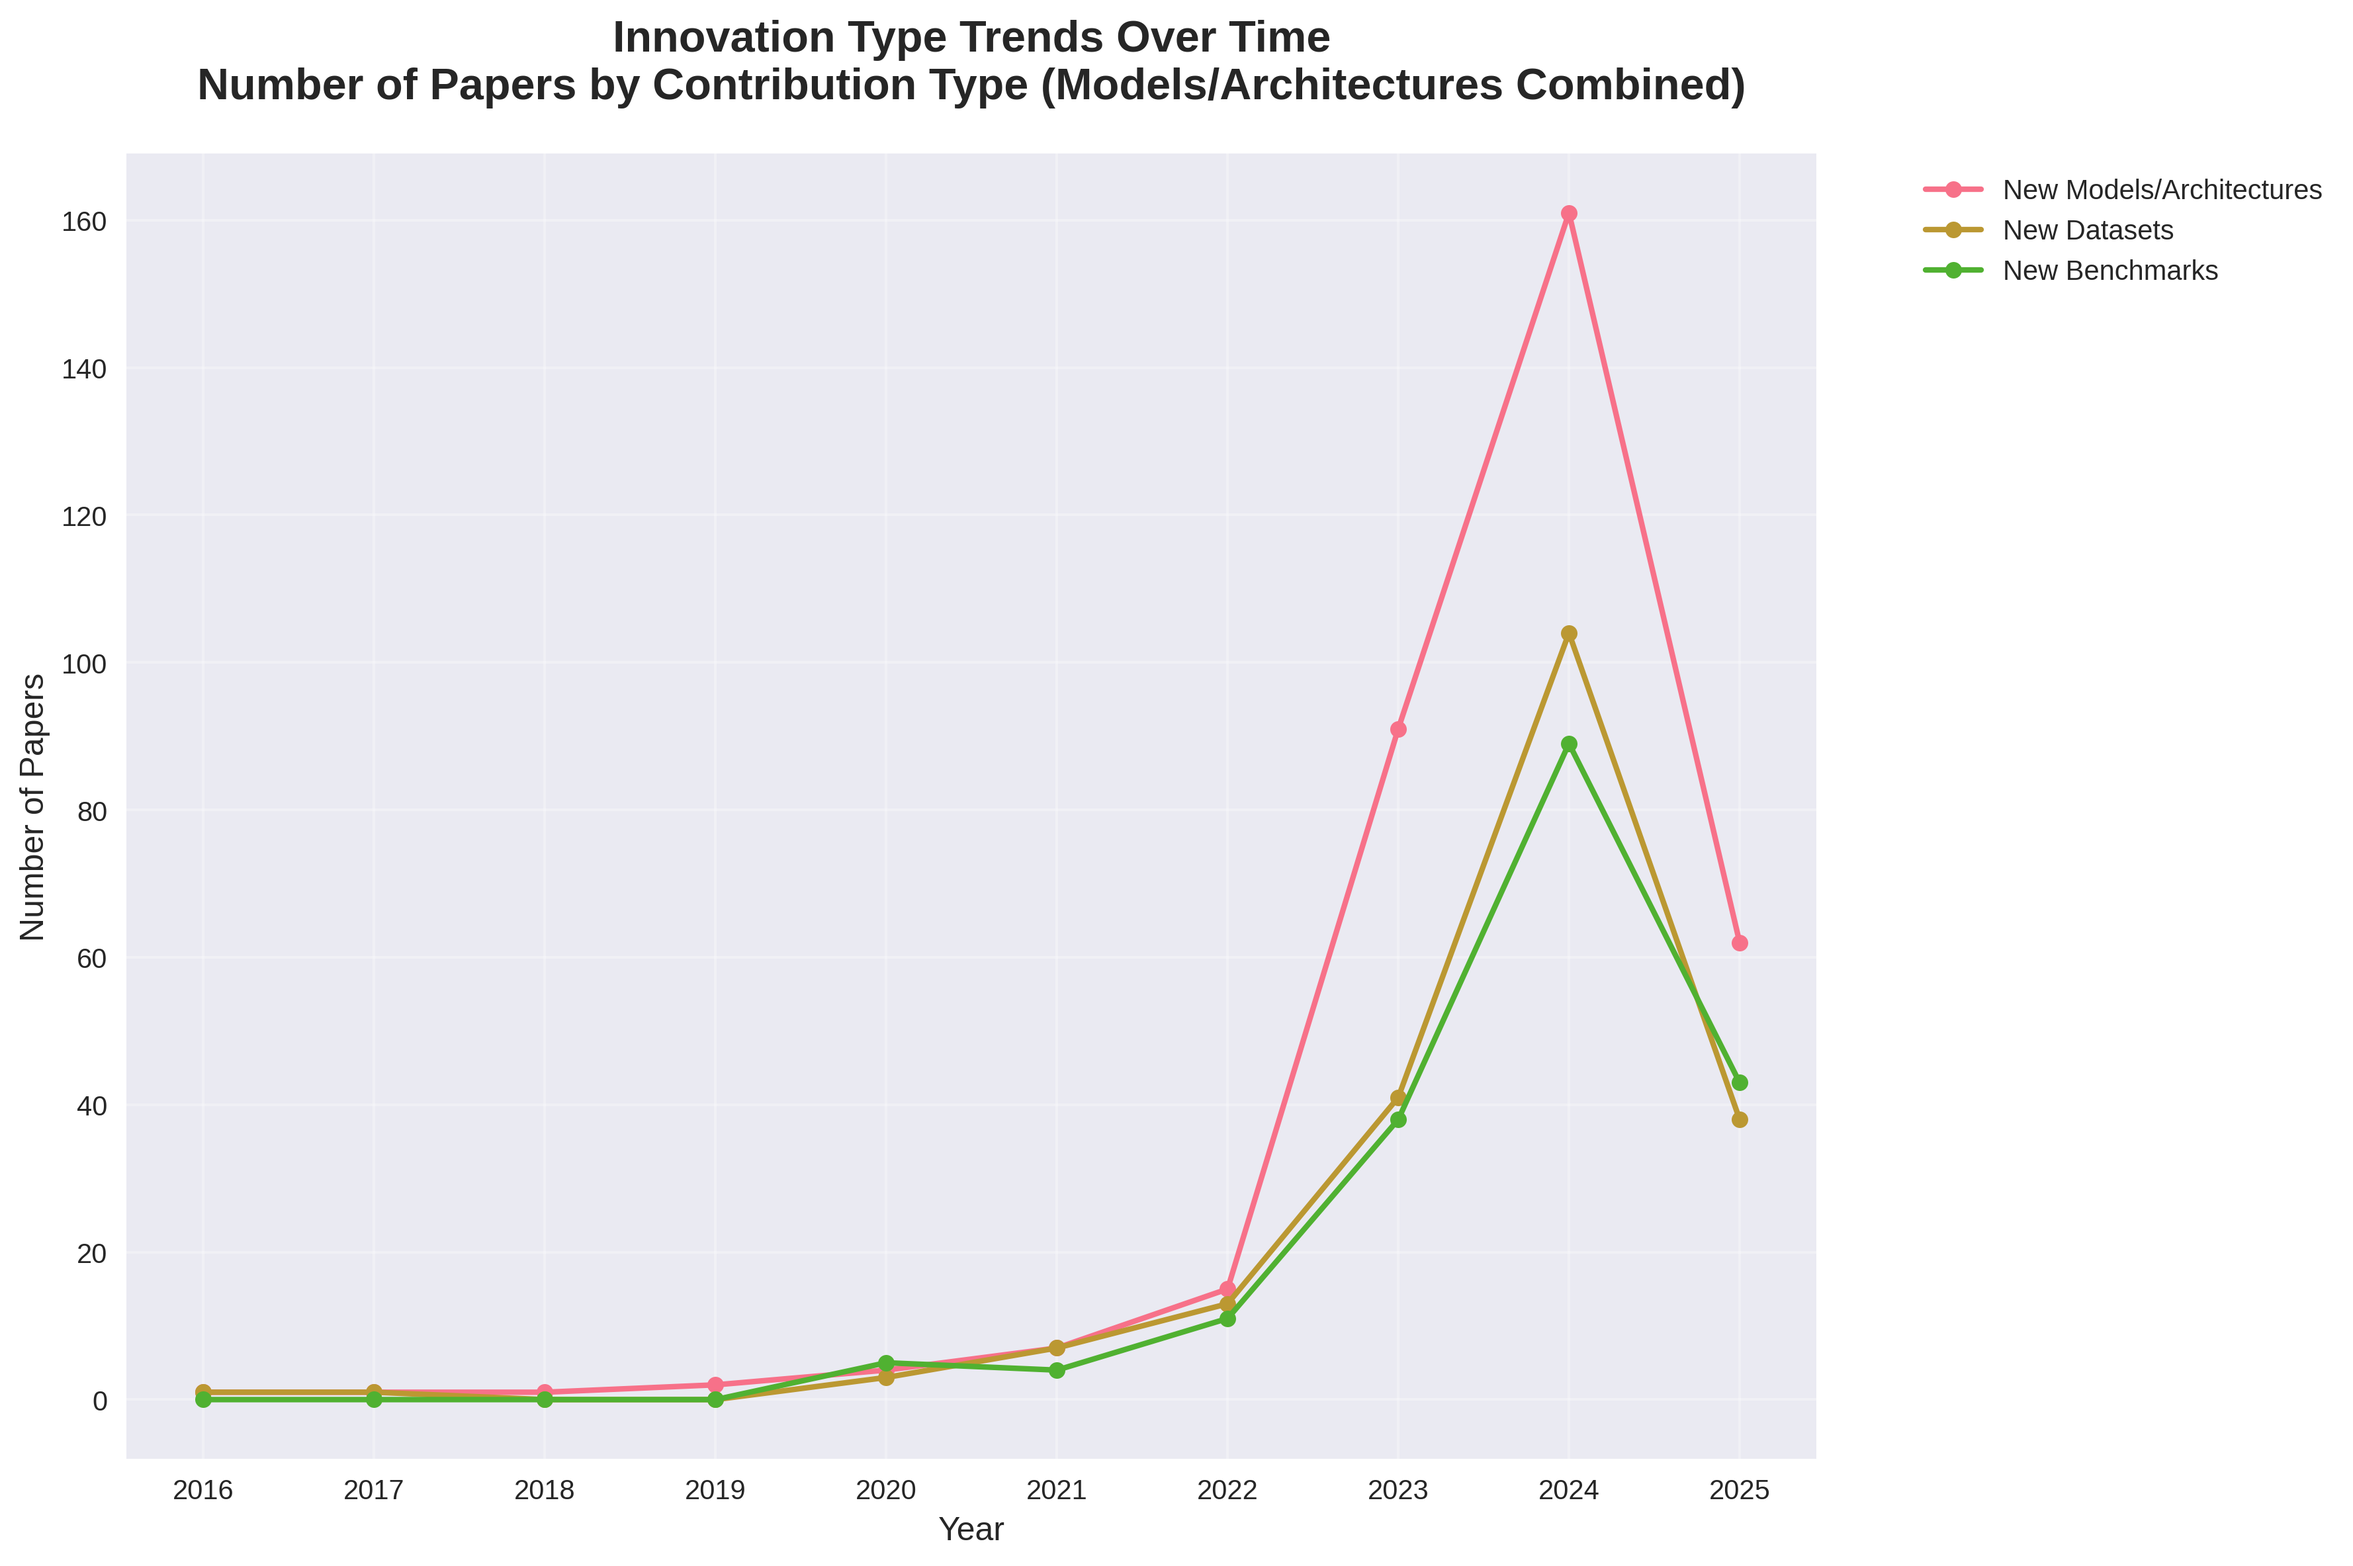
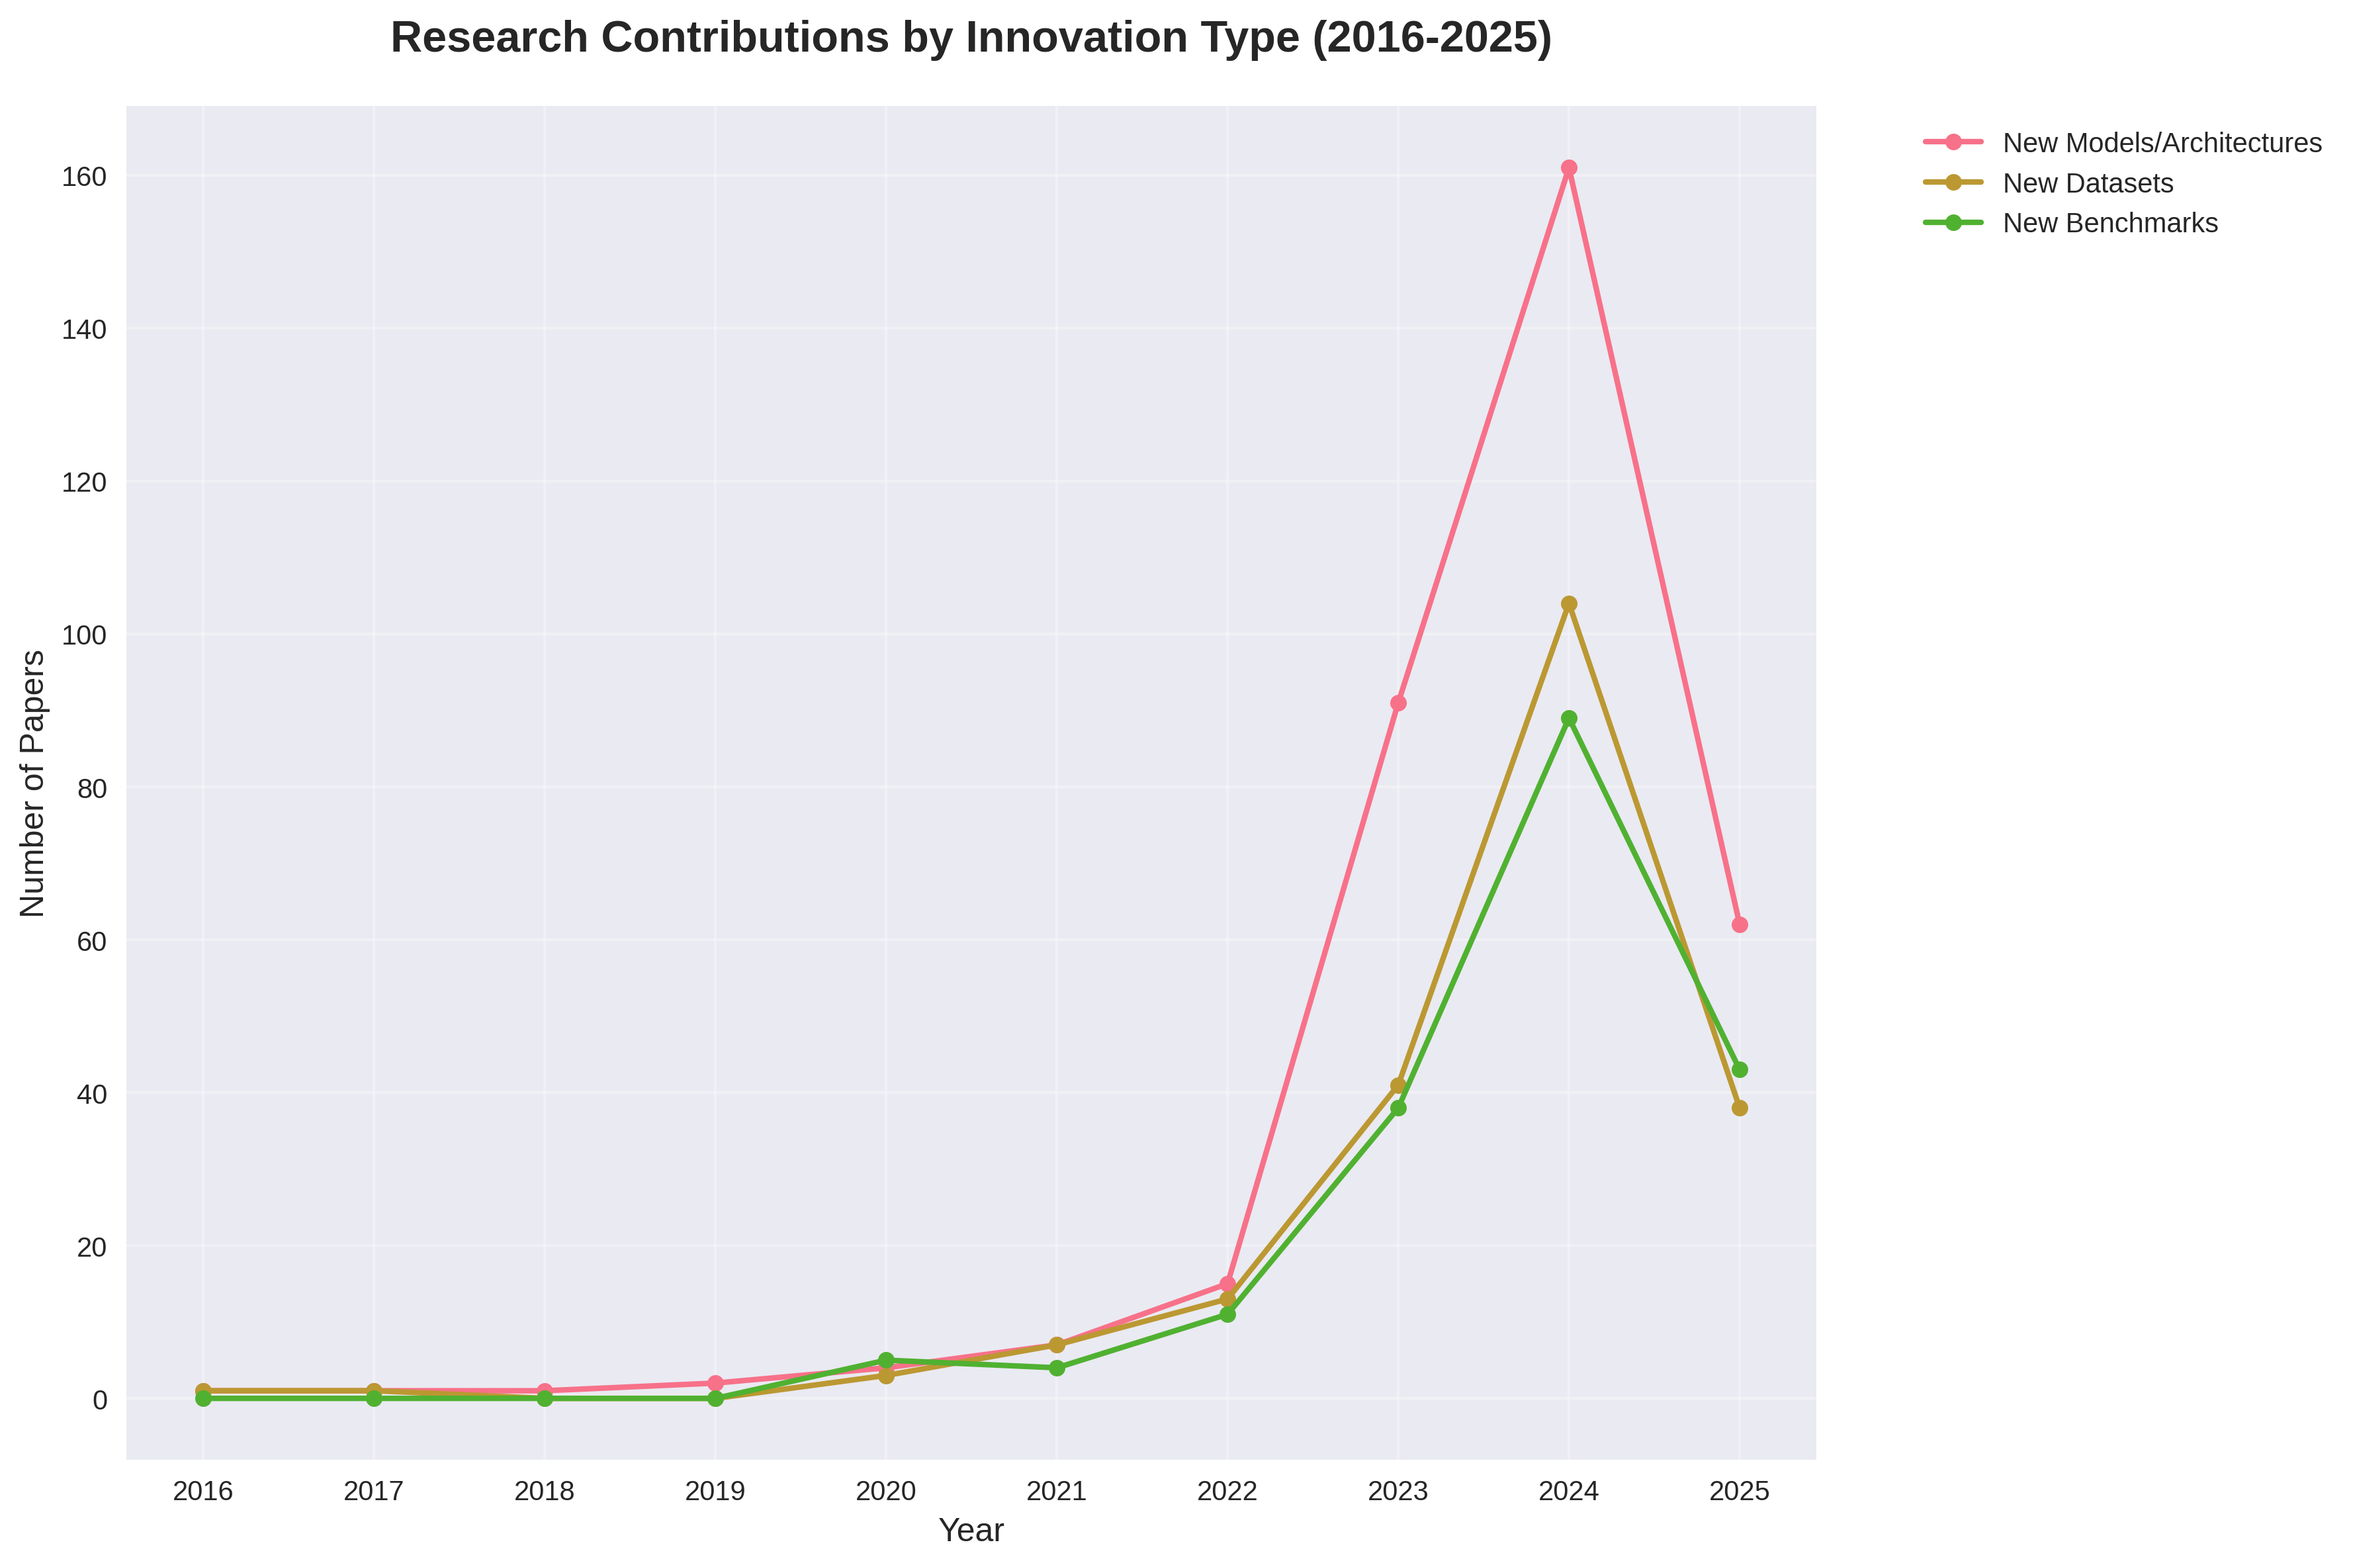
add timeline analysis

diff --git a/research_timeline_analysis.py b/research_timeline_analysis.py
@@ -100,7 +100,7 @@ def create_timeline_chart(data, output_dir):
         plt.plot(trend_years, trend_counts, '--', linewidth=2, alpha=0.7, 
                  label='Trend Projection', color='#A23B72', zorder=2)
     
-    plt.title('GUI Agent Research Timeline\nTotal Papers Published by Year (with 2025-2026 Projection)', 
+    plt.title('GUI Agent Research Publications by Year (2016-2025)', 
               fontsize=16, fontweight='bold', pad=20)
     plt.xlabel('Year', fontsize=12)
     plt.ylabel('Number of Papers', fontsize=12)
@@ -180,7 +180,7 @@ def create_platform_trends_chart(data, output_dir):
         plt.plot(years, platform_data[platform], marker='o', 
                 linewidth=2, markersize=6, label=platform)
     
-    plt.title('Platform Research Trends Over Time\nNumber of Papers by Target Platform', 
+    plt.title('GUI Agent Research by Target Platform Over Time', 
               fontsize=16, fontweight='bold', pad=20)
     plt.xlabel('Year', fontsize=12)
     plt.ylabel('Number of Papers', fontsize=12)
@@ -249,7 +249,7 @@ def create_innovation_trends_chart(data, output_dir):
         plt.plot(years, innovation_data[innovation_type], marker='o', 
                 linewidth=2, markersize=6, label=label)
     
-    plt.title('Innovation Type Trends Over Time\nNumber of Papers by Contribution Type (Models/Architectures Combined)', 
+    plt.title('Research Contributions by Innovation Type (2016-2025)', 
               fontsize=16, fontweight='bold', pad=20)
     plt.xlabel('Year', fontsize=12)
     plt.ylabel('Number of Papers', fontsize=12)
@@ -342,7 +342,7 @@ def create_compound_innovation_chart(data, output_dir):
                         alpha=0.8, label=label, color=colors[i])
         bottom += category_data[category]
     
-    plt.title('Compound Innovation Analysis (Corrected)\nDistribution of Papers by Number of Innovations Over Time\n(Models/Architectures Combined to Avoid Double Counting)', 
+    plt.title('Distribution of Papers by Number of Innovations per Paper', 
               fontsize=16, fontweight='bold', pad=20)
     plt.xlabel('Year', fontsize=12)
     plt.ylabel('Number of Papers', fontsize=12)

diff --git a/timeline_analysis/compound_innovation_analysis.md b/timeline_analysis/compound_innovation_analysis.md
@@ -157,7 +157,23 @@ This chart shows how different types of contributions have evolved over time. Te
 
 ![Compound Innovations](compound_innovations.png)
 
-This stacked area chart tells the story of increasing research comprehensiveness in GUI agents. The bottom gray area shows papers with no major innovations - this category is shrinking over time. Single-innovation papers (light blue) remain the largest category but are relatively decreasing. The exciting trend is in the purple and pink areas - papers with 2 or 3 innovations are rapidly growing. By 2024, 36.5% of papers introduce multiple innovations, up from 25.6% in 2022. This suggests the field is maturing beyond single-contribution papers toward more holistic research that combines technical advances with datasets and evaluation frameworks.
+**How to Read This Stacked Area Chart:**
+
+This chart shows the total number of papers each year, broken down by how many innovations each paper contributes:
+
+- **Gray (bottom)**: Papers with **0 innovations** - these are survey papers, position papers, or papers that don't introduce new technical contributions
+- **Light Blue**: Papers with **1 innovation** - traditional single-focus research (e.g., just a new model, or just a new dataset)
+- **Purple**: Papers with **2 innovations** - comprehensive papers combining two contribution types (e.g., new model + new dataset)
+- **Pink (top)**: Papers with **3 innovations** - highly comprehensive papers introducing all three types: technical contribution + dataset + benchmark
+
+**Key Insights:**
+- The **total height** at any year shows the total number of papers published that year
+- The **relative proportions** show how the field is evolving toward more comprehensive research
+- **Gray area shrinking** = fewer papers with no major innovations
+- **Purple and pink areas growing** = more multi-innovation papers
+- By 2024, **36.5% of papers** (purple + pink areas) introduce multiple innovations, up from 25.6% in 2022
+
+This trend suggests the field is maturing beyond single-contribution papers toward more holistic research that combines technical advances with datasets and evaluation frameworks.
 
 ## Technical Notes
 
